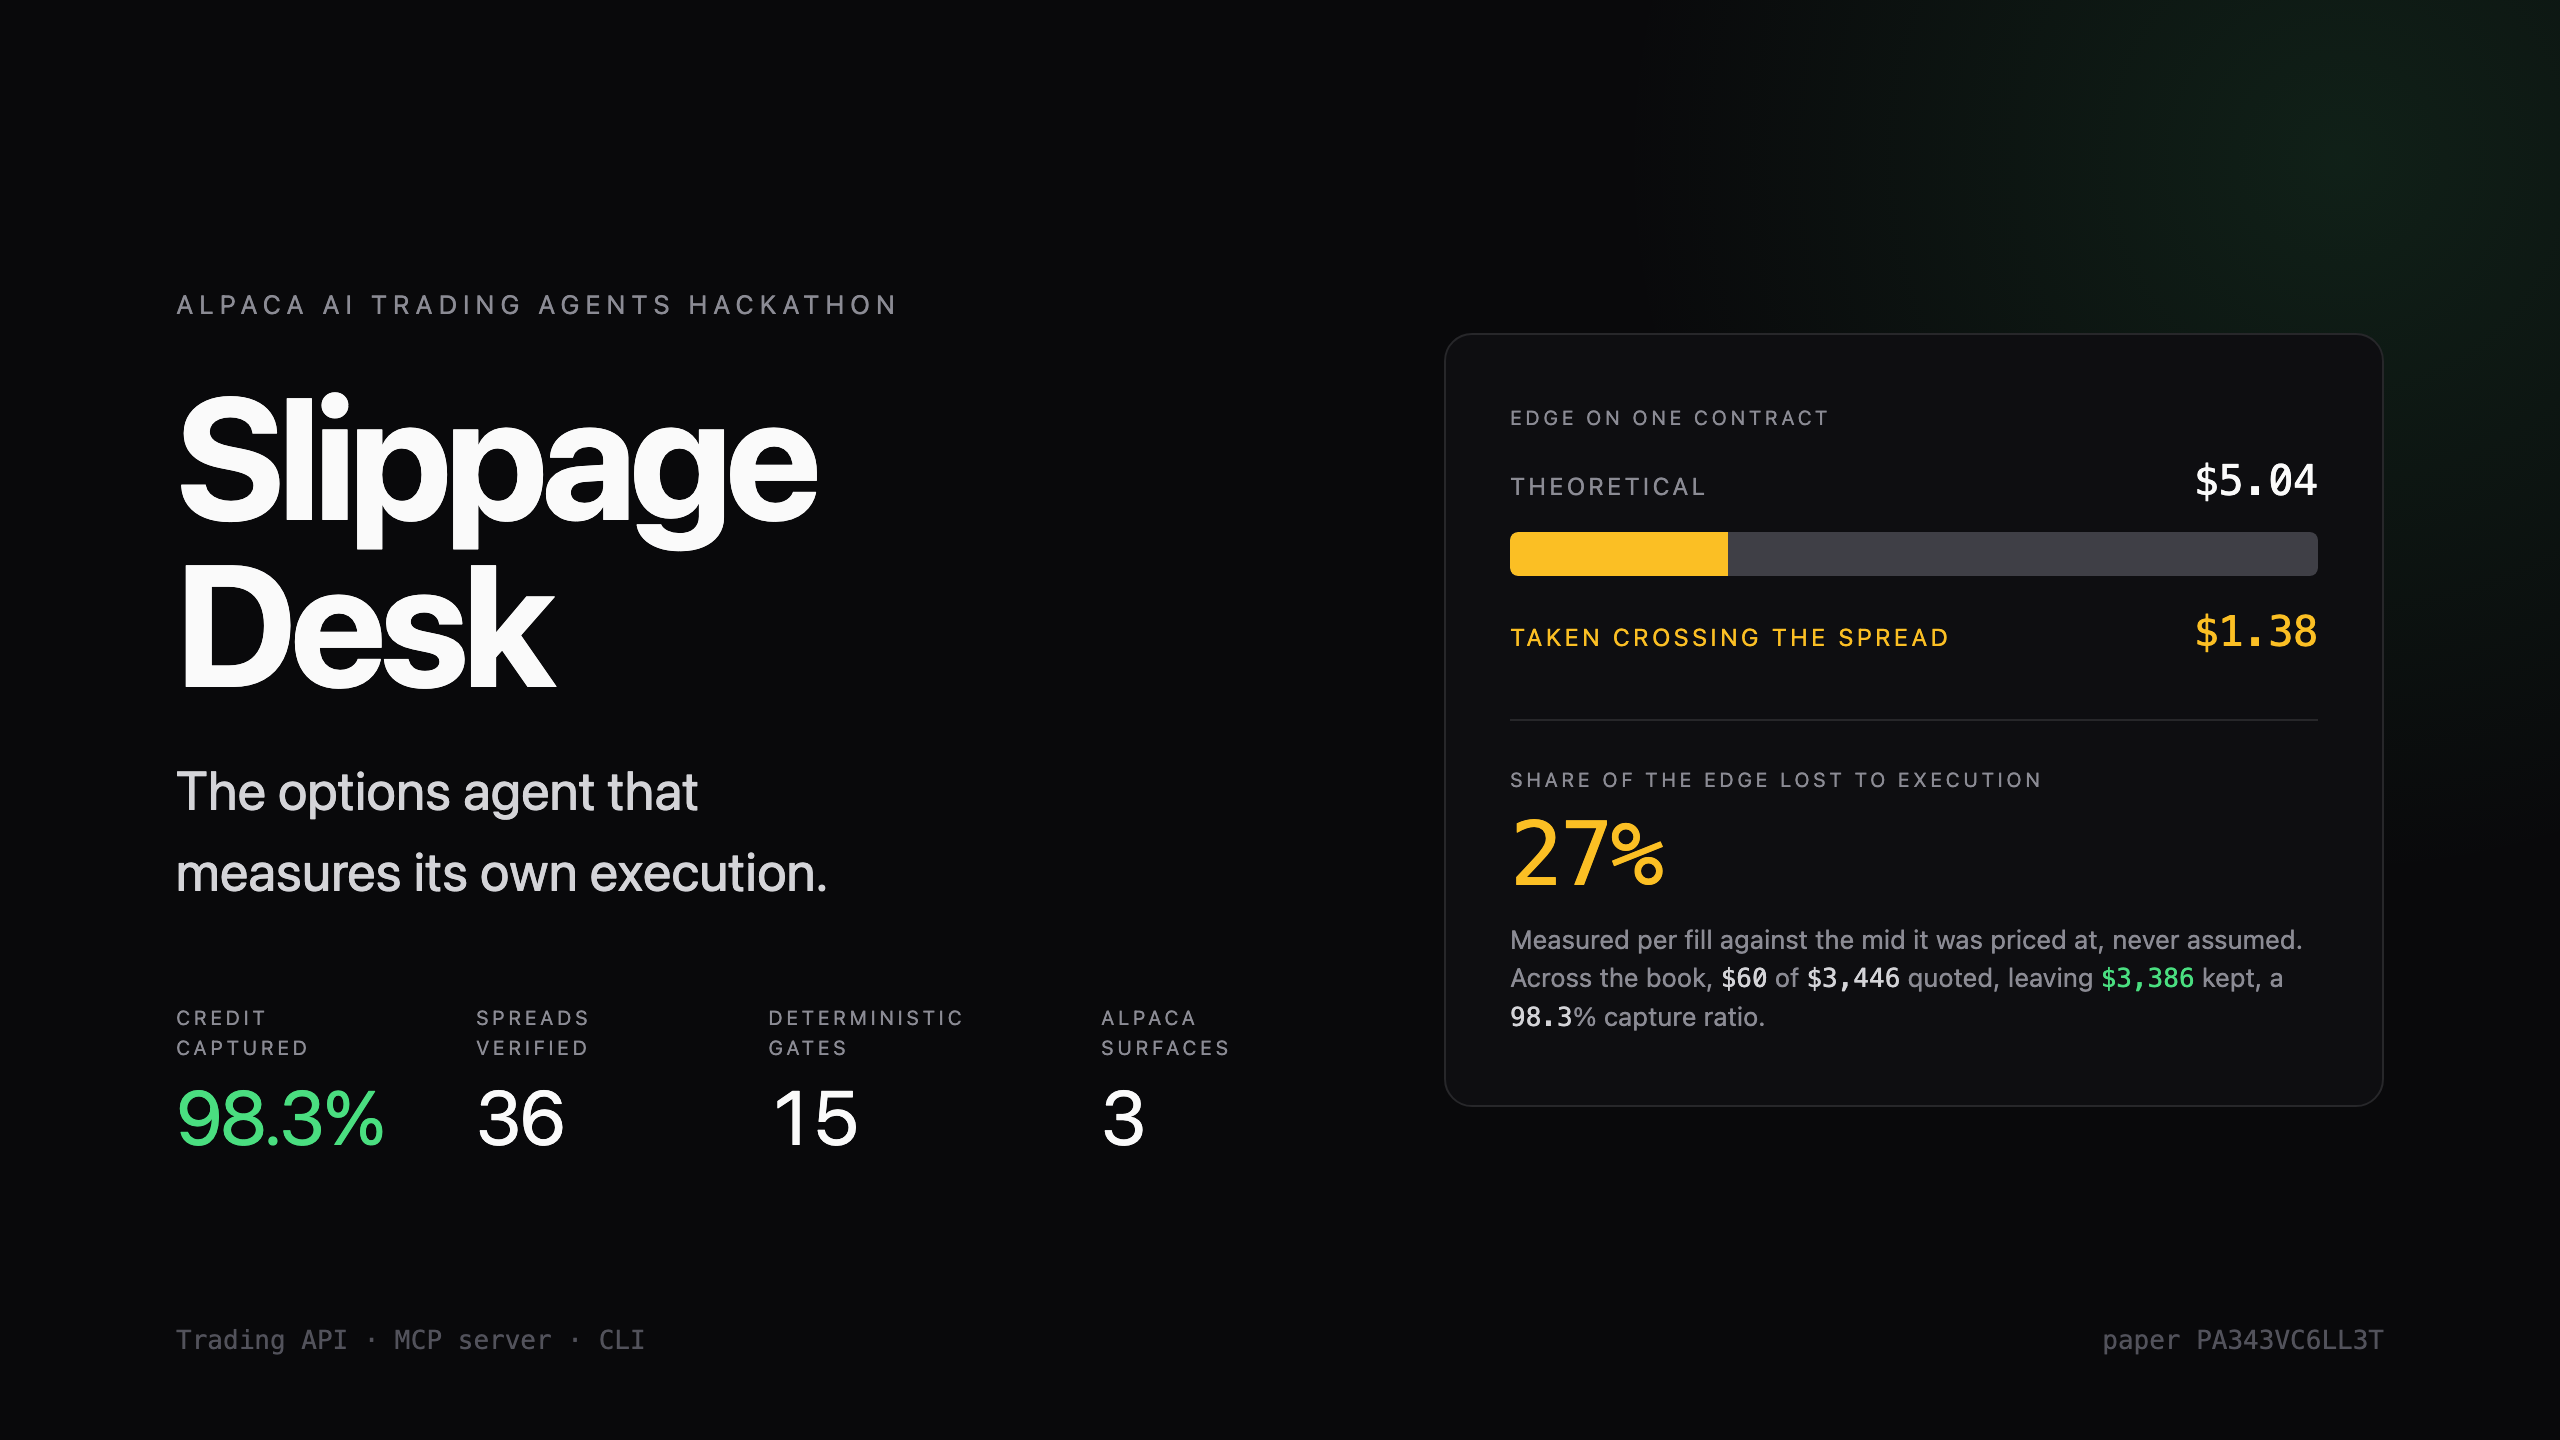
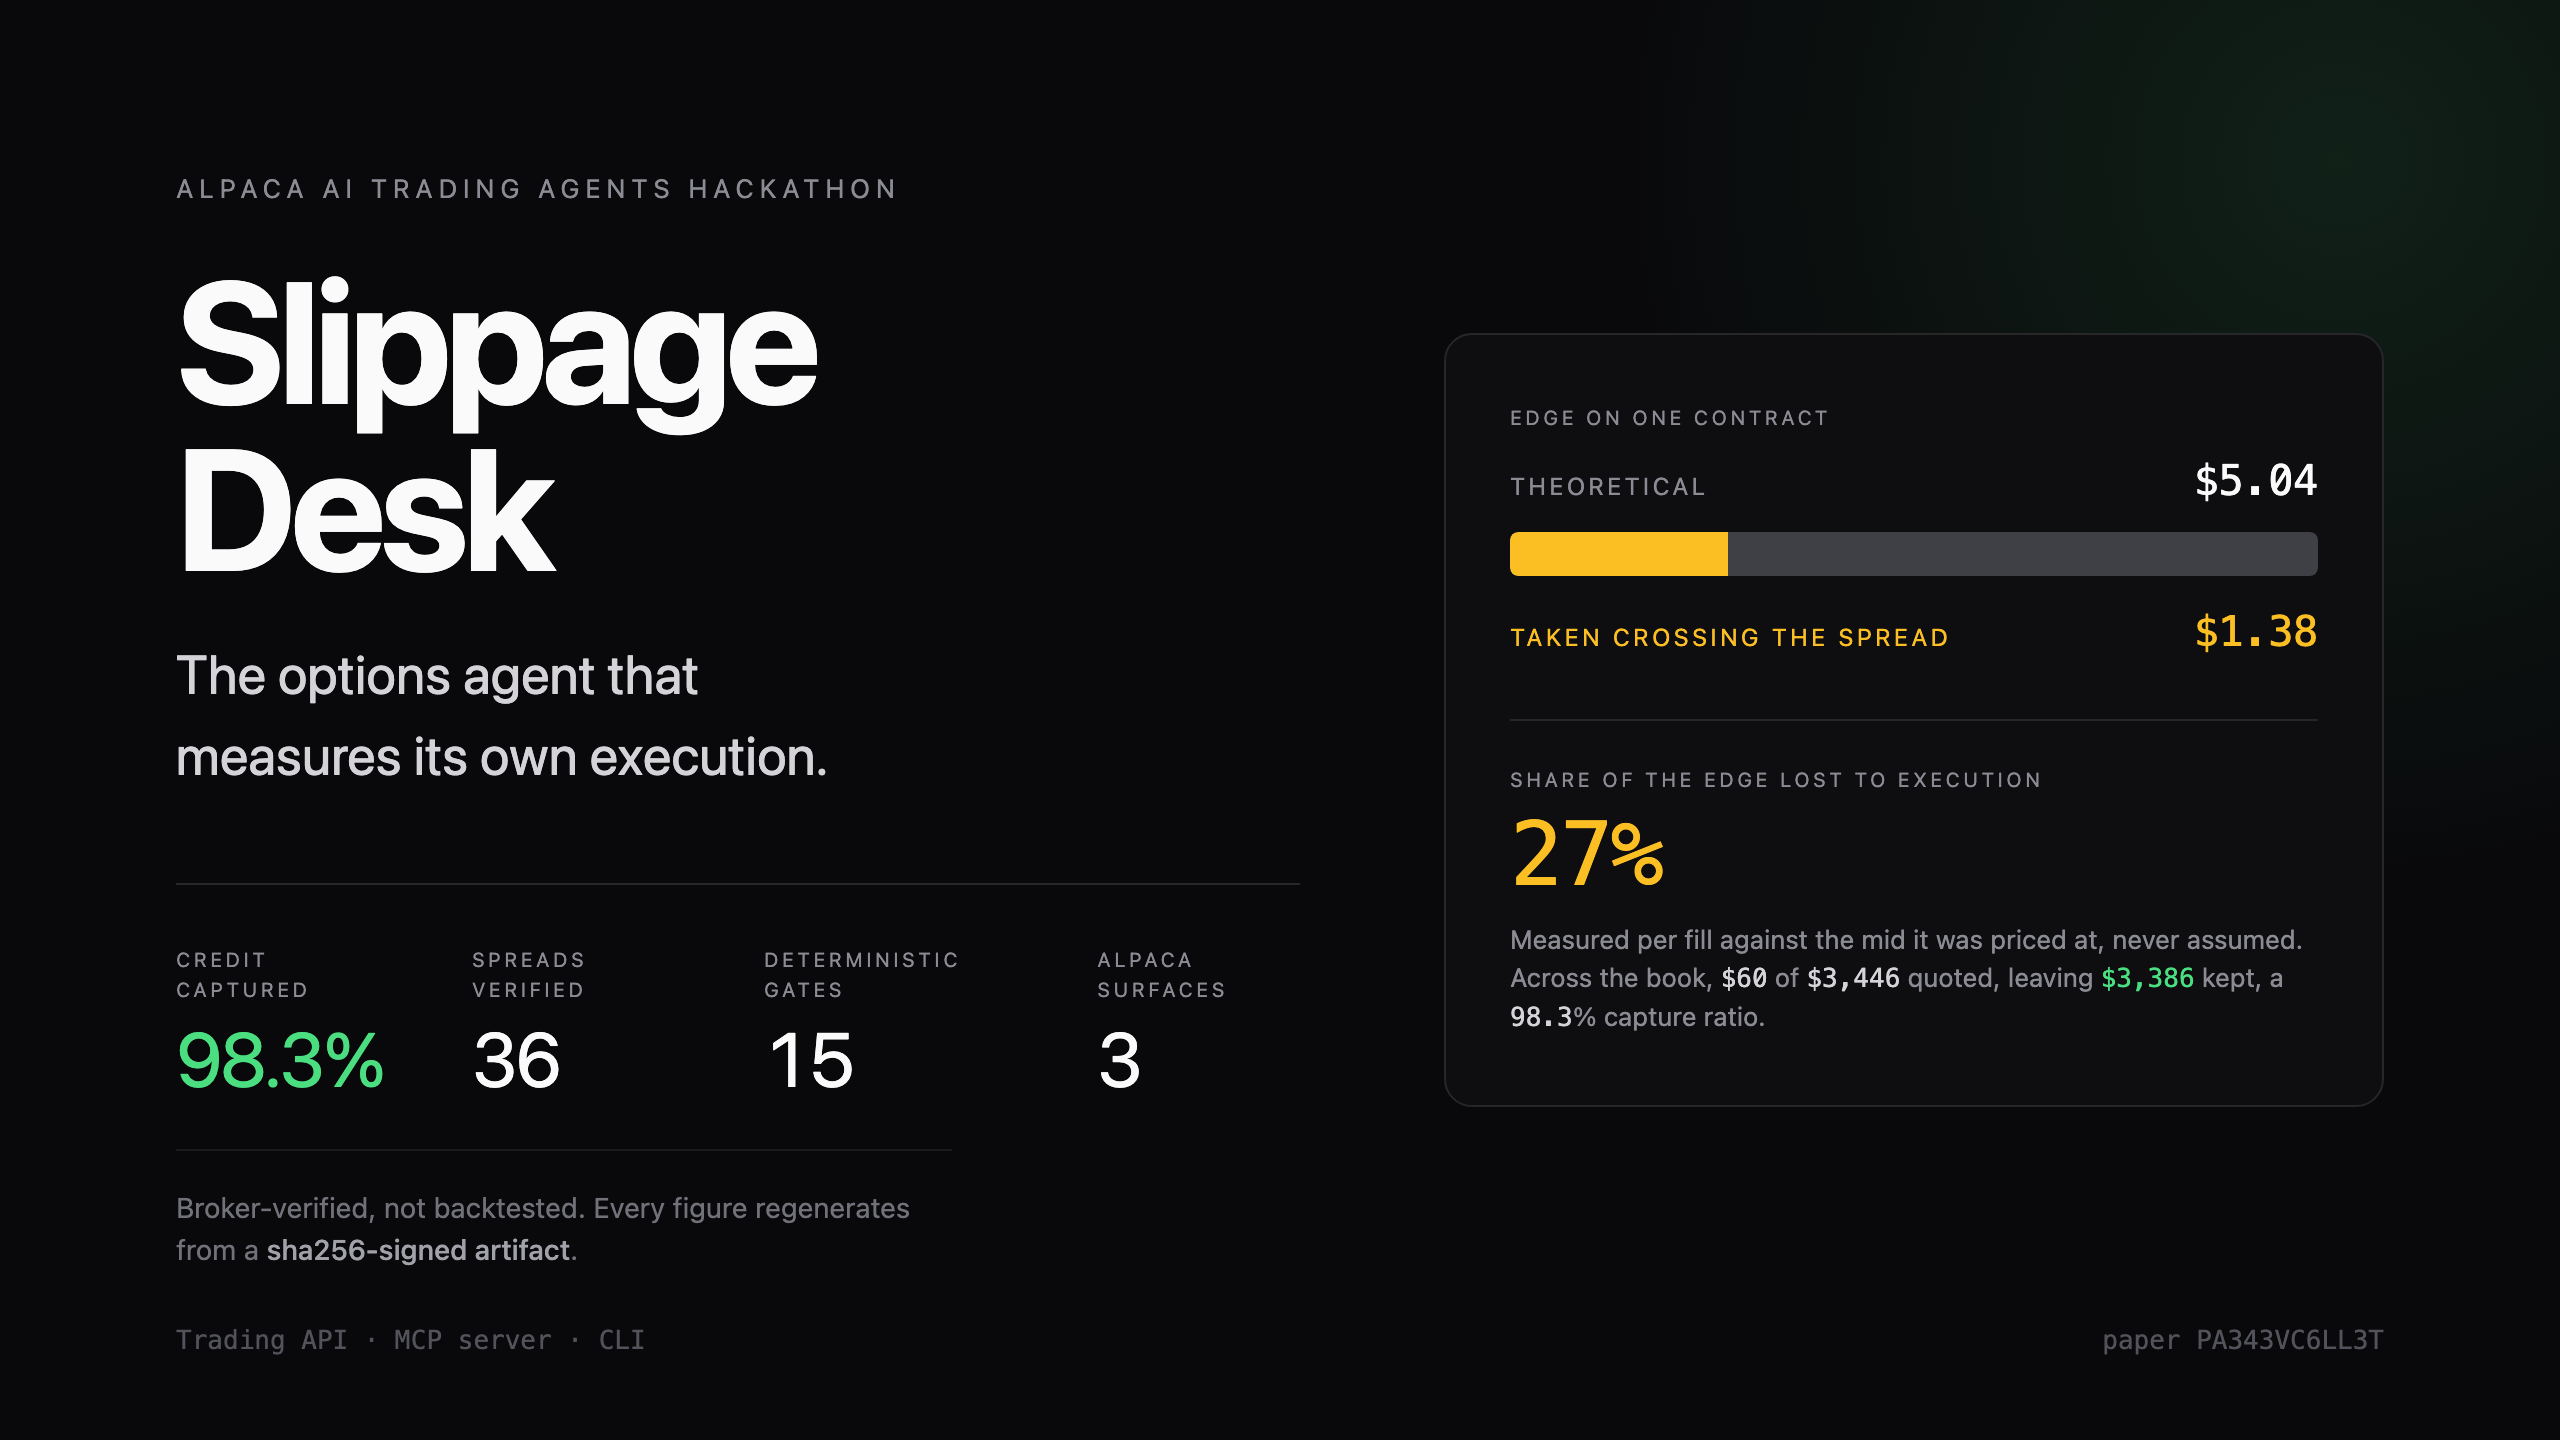
Balance the cover, and close the dead band under the stats
The redesigned panel fixed the illegible bar, but the left column still ended
a third of the way up the canvas: roughly 15% of the image was empty below
the stat row, and the two columns terminated at visibly different heights,
which reads as an unfinished layout rather than deliberate space.

The four stats also floated as unrelated numbers. A rule above now groups
them, and a proof line below closes the column at about the same height as
the panel opposite. The line earns its place rather than filling space: it
states that the figures are broker-verified and regenerate from a signed
artifact, which is the claim the whole cover rests on.

First attempt at that line ran three lines and collided with the footer, so
it is trimmed to two.

Cover remains exactly 2560x1440. Deck rebuilt from the same source.

Claude-Session: https://claude.ai/code/session_01JiHaLfL3iXhfeLpvHNWYLB

diff --git a/docs/cover.html b/docs/cover.html
@@ -21,7 +21,14 @@
          color: #8b8b94; margin-bottom: 24px; }
   h1 { font-size: 86px; line-height: .97; letter-spacing: -.035em; }
   .lede { font-size: 27px; color: #d4d4d8; margin-top: 22px; max-width: 22ch; }
-  .row { display: flex; gap: 46px; margin-top: 46px; }
+  /* The stat row read as four floating numbers with a large empty band
+     beneath it. A rule above groups them, and the proof line below closes
+     the column at roughly the same height as the panel opposite. */
+  .rule { height: 1px; background: #27272a; margin-top: 44px; }
+  .row { display: flex; gap: 44px; margin-top: 30px; }
+  .proof { margin-top: 26px; padding-top: 18px; border-top: 1px solid #1c1c20;
+           font-size: 14px; line-height: 1.5; color: #71717a; max-width: 44ch; }
+  .proof b { color: #a1a1aa; font-weight: 500; }
   .k { font-size: 10px; letter-spacing: .16em; text-transform: uppercase;
        color: #8b8b94; margin-bottom: 8px; }
   .v { font-size: 38px; font-variant-numeric: tabular-nums; letter-spacing: -.03em;
@@ -66,6 +73,7 @@
     <div class="tag">Alpaca AI Trading Agents Hackathon</div>
     <h1>Slippage<br>Desk</h1>
     <div class="lede">The options agent that measures its own execution.</div>
+    <div class="rule"></div>
     <div class="row">
       <div><div class="k">Credit captured</div>
            <div class="v g" id="x-capture">98.3%</div></div>
@@ -75,6 +83,10 @@
            <div class="v" id="x-gates">15</div></div>
       <div><div class="k">Alpaca surfaces</div>
            <div class="v" id="x-surfaces">3</div></div>
+    </div>
+    <div class="proof">
+      Broker-verified, not backtested. Every figure regenerates from a
+      <b>sha256-signed artifact</b>.
     </div>
   </div>
 

diff --git a/docs/slides.html b/docs/slides.html
@@ -233,3 +233,7 @@
 <!-- evidence sha256 7994fb9b756efda7 -->
 
 <!-- evidence sha256 7994fb9b756efda7 -->
+
+<!-- evidence sha256 7994fb9b756efda7 -->
+
+<!-- evidence sha256 7994fb9b756efda7 -->
